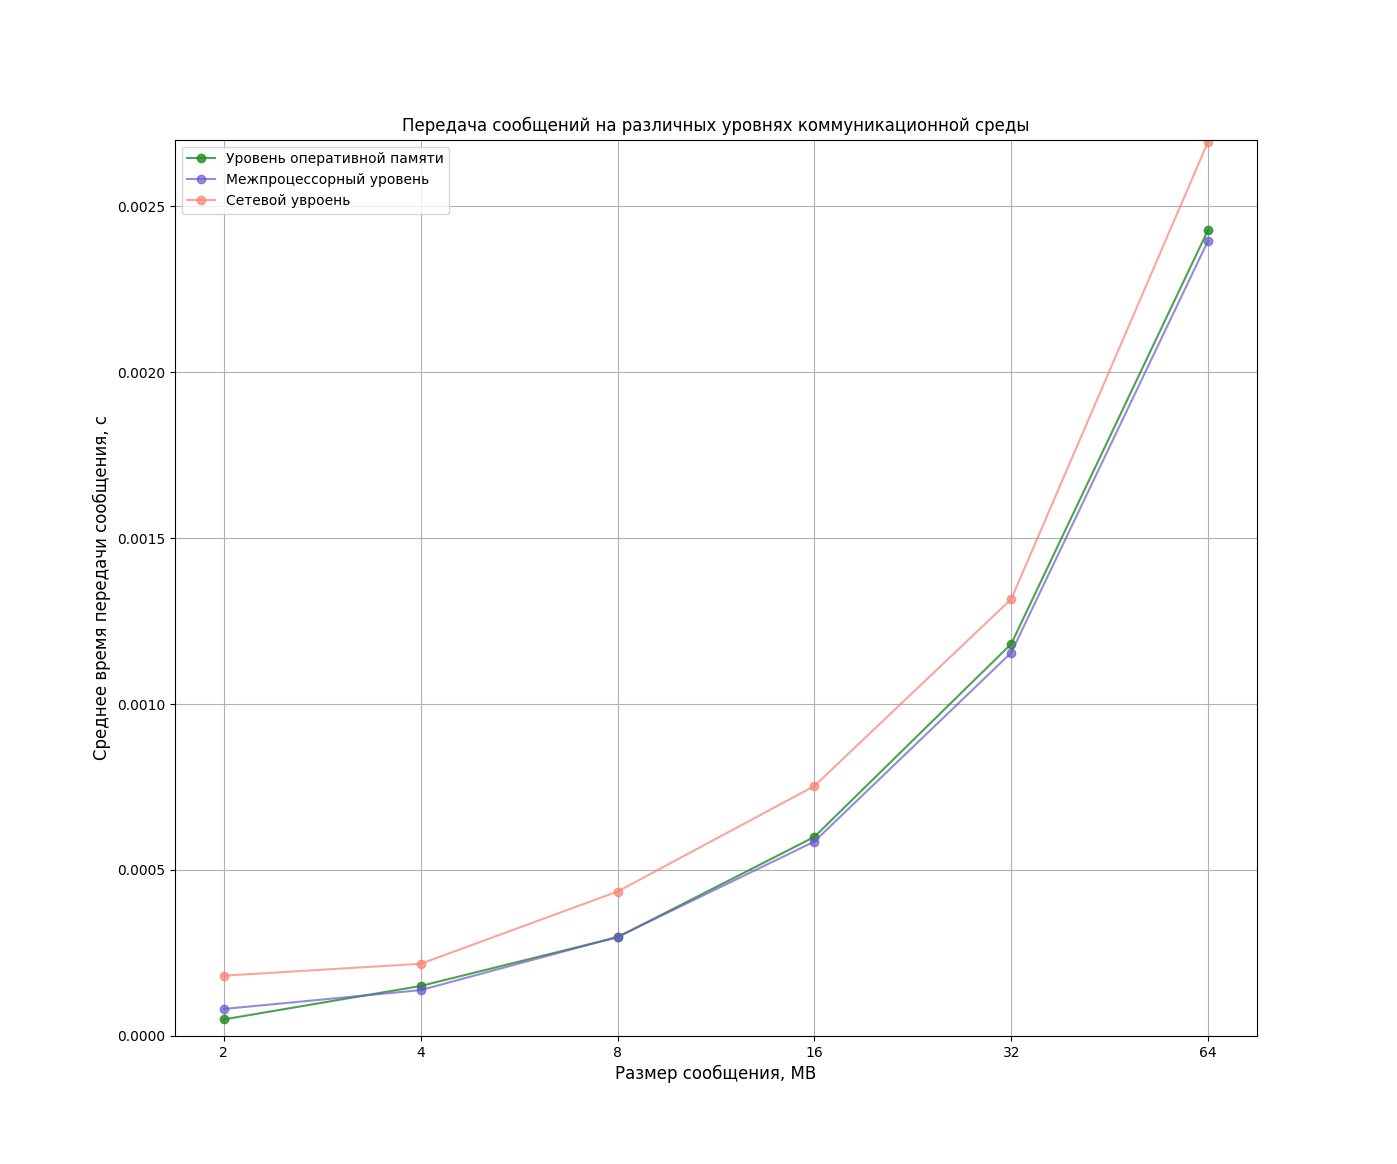
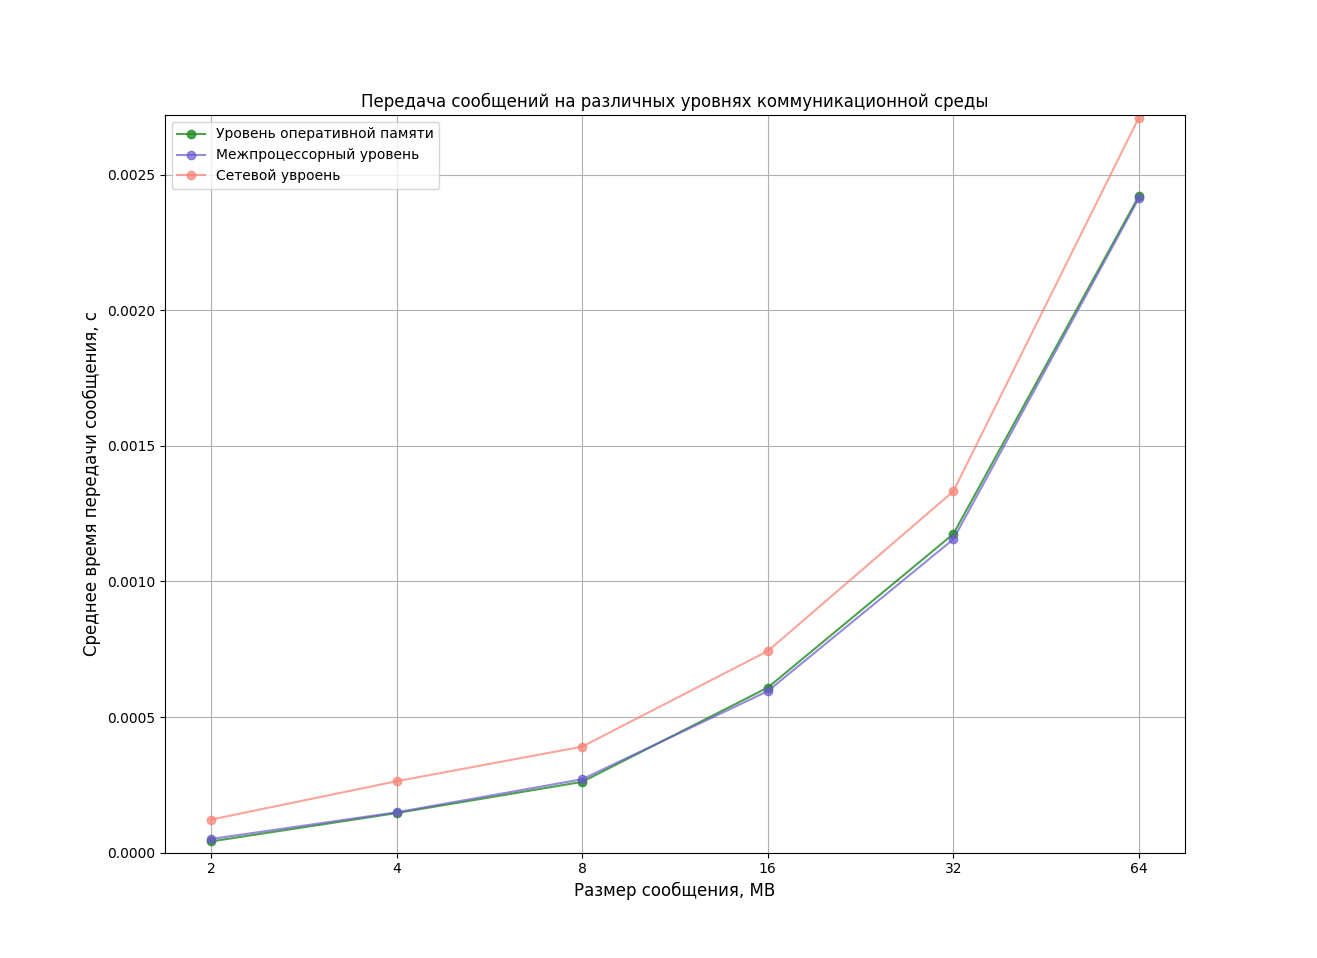
fix flobal time reduction

diff --git a/src/exchange_time/extime.c b/src/exchange_time/extime.c
@@ -21,7 +21,7 @@ int main (int argc, char *argv[])
     double tsend = 0.0;
     double trecv = 0.0;
 
-    double total_time[2] = {0.0, 0.0}; //total_time time
+    double total_time; //total process operations time
 
     MPI_Init (&argc, &argv);
     MPI_Comm_size (MPI_COMM_WORLD, &commsize);
@@ -38,20 +38,22 @@ int main (int argc, char *argv[])
             MPI_Isend(buffer, count, MPI_UINT8_T, 1, 0, MPI_COMM_WORLD, &req);
             tsend = (MPI_Wtime() - tsend);
             printf("----->>>%d - %d  Время отправки: %.10f\n", i, rank, tsend);
-            total_time[0] += tsend;
+            total_time += tsend;
         } else if (rank == RECV_RANK) {
             trecv = MPI_Wtime();
             MPI_Irecv(buffer, count, MPI_UINT8_T, 0, 0, MPI_COMM_WORLD, &req);
             trecv = (MPI_Wtime() - trecv);
             printf("%d - %d  Время получения: %.10f<<<------\n", i, rank, trecv);
-            total_time[1] += trecv;
+            total_time += trecv;
         }
         MPI_Waitall(1, &req, MPI_STATUS_IGNORE);
     }
 
+    double global_time = 0.0; //global all processes operations time
+    MPI_Reduce(&total_time, &global_time, 1, MPI_DOUBLE, MPI_SUM, ROOT_RANK, MPI_COMM_WORLD);
     if (rank == ROOT_RANK) {
-        printf("Общее время (send/recv): %.10f (кол-во передач: %d)\n", total_time[0] + total_time[1], NUM_RUN);
-        printf("Среднее время выполнения операции обмена (send+recv): %.10f\n", (total_time[0] + total_time[1]) / NUM_RUN);
+        printf("Общее время (send/recv): %.10f (кол-во передач: %d)\n", global_time, NUM_RUN);
+        printf("Среднее время выполнения операции обмена (send+recv): %.10f\n", global_time / NUM_RUN);
     }
 
     free(buffer);

diff --git a/src/graph.py b/src/graph.py
@@ -11,9 +11,9 @@ plt.ylabel("Среднее время передачи сообщения, с", 
 #Data to plot
 x = np.array(["2", "4", "8", "16", "32", "64"])
 
-y = np.array([0.0000498756, 0.0001505816, 0.0002973489, 0.0005997650, 0.0011810359, 0.0024281442])
-y2 = np.array([0.0000813688, 0.0001380975, 0.0002983796, 0.0005857213, 0.0011547149, 0.0023957227])
-y3 = np.array([0.0001815466, 0.0002174860, 0.0004350159, 0.0007529949, 0.0013160692, 0.0026938401])
+y = np.array([0.0000412563, 0.0001459172, 0.0002609572, 0.0006084881, 0.0011748465, 0.0024209911])
+y2 = np.array([0.0000502218, 0.0001486962, 0.0002706839, 0.0005952951, 0.0011555086, 0.0024129899])
+y3 = np.array([0.0001217021, 0.0002632520, 0.0003907947, 0.0007432661, 0.0013322021, 0.0027103880])
 
 plt.plot(x, y,linestyle='-', marker='o', color="#228B22", alpha = 0.80, label='Уровень оперативной памяти')
 plt.plot(x, y2,linestyle='-', marker='o', color="#6A5ACD", alpha = 0.70, label='Межпроцессорный уровень')

diff --git a/README.md b/README.md
@@ -1,14 +1,16 @@
 # Параллельные вычислительные технологии
 > Используемые функции MPI
 
-| Функция | Аргументы |
-| ------ | ------ |
-| MPI_Init() | |
-| MPI_Commsize() |  |
-| MPI_Comm_rank() |  |
-| MPI_Isend(const void *buf, int count, MPI_Datatype datatype, int dest, int tag, MPI_Comm comm, MPI_Request *request) | buf - начальный адрес буфера, count - количество элементов в буфере, datatype - тип данных в буфере, dest - ранг получателя, tag - тэг сообщения, comm - коммуникатор, в котором выполняется обмен, request - запрос, необходимый для отслеживания состояния обмена  |
-| MPI_Irecv() |  |
-| MPI_Waitall() |  |
+| Функция | Аргументы | Описание |
+| ------ | ------ | ------ |
+| `MPI_Init()` | <ul>- | Инициализация параллельной части программы |
+| `MPI_Finalize()` | <ul>- | Завершение параллельной части программы |
+| `MPI_Commsize(MPI_Comm comm, int* size)` | <ul><li>comm - коммуникатор <li>~~OUT~~ size - размер группы (out-параметр)</li></ul> | Определение общего числа параллельных процессов в группе (коммуникаторе) _comm_ |
+| `MPI_Comm_rank(MPI_Comm comm, int* rank)` | <ul><li>comm - коммуникатор <li>~~OUT~~ rank - номер процесса в группе</ul> | Определение номера процесса в группе _comm_ |
+| `MPI_Isend(const void *buf, int count, MPI_Datatype datatype, int dest, int tag, MPI_Comm comm, MPI_Request *request)` | <ul><li>buf - начальный адрес буфера <li>count - количество элементов в буфере <li>datatype - тип данных в буфере <li>dest - ранг получателя <li>tag - тэг сообщения, comm - коммуникатор, в котором выполняется обмен <li>~~OUT~~ request - запрос, необходимый для отслеживания состояния обмена</li></ul>  | Передача сообщения, аналогичная _MPI_Send_, однако возврат из подпрограммы происходит сразу после инициализации процесса передачи без ожидания обработки всего сообщения, находящегося в буфере _buf_ |
+| `MPI_Reduce(void *sbuf, void *rbuf, int count, MPI_Datatype datatype, MPI_Op op, int root, MPI_Comm comm)` | <ul><li>адрес начала буфера аргументов<li>~~OUT~~ rbuf - адрес начала буфера-результата<li>count - количество аргументов для передачи у каждого процесса<li>datatype - тип передаваемых элементов<li>op - идентификатор глобальной операции, выполняемой над аргументами<li>root - процесс-получатель результата<li>comm - идентификатор группы</li></ul>  | Объединение элементов входного буфера каждого процесса в группе, используя операцию _op_ , и возвращает объединенное значение в выходной буфер процесса с номером _root_ |
+| `MPI_Irecv(void *buf, int count, MPI_Datatype datatype, int source, int msgtag, MPI_Comm comm, MPI_Request *request)` | <ul><li>~~OUT~~ buf - адрес начала буфера приема сообщения<li>count - максимальное число элементов в принимаемом сообщении<li>datatype - тип элементов принимаемого сообщения<li>source - номер процесса-отправителя, msgtag - идентификатор принимаемого сообщения<li>comm - коммуникатор группы<li>~~OUT~~ request - идентификатор асинхронного приема сообщения</li></ul> | Прием сообщения, аналогичный _MPI_Recv_, однако возврат из подпрограммы происходит сразу после инициализации процесса приема без ожидания получения сообщения в буфере _buf_. Окончание процесса приема можно определить с помощью параметра request и процедур _MPI_Wait_ и _MPI_Test_. |
+| `MPI_Waitall(int count, MPI_Request *requests, MPI_Status *statuses)` | <ul><li>count - число идентификаторов ожидаемых процессов<li>requests - массив дескрипторов асинхронного приема или передачи<li>~~OUT~~ statuses - статусы сообщений</li></ul> | Выполнение процесса блокируется до тех пор, пока все операции обмена, ассоциированные с указанными идентификаторами, не будут завершены |
 
 > [Документация MPI](https://curc.readthedocs.io/en/latest/programming/MPI-C.html)
 > Больше информации об интерфейсе передачи сообщений.
